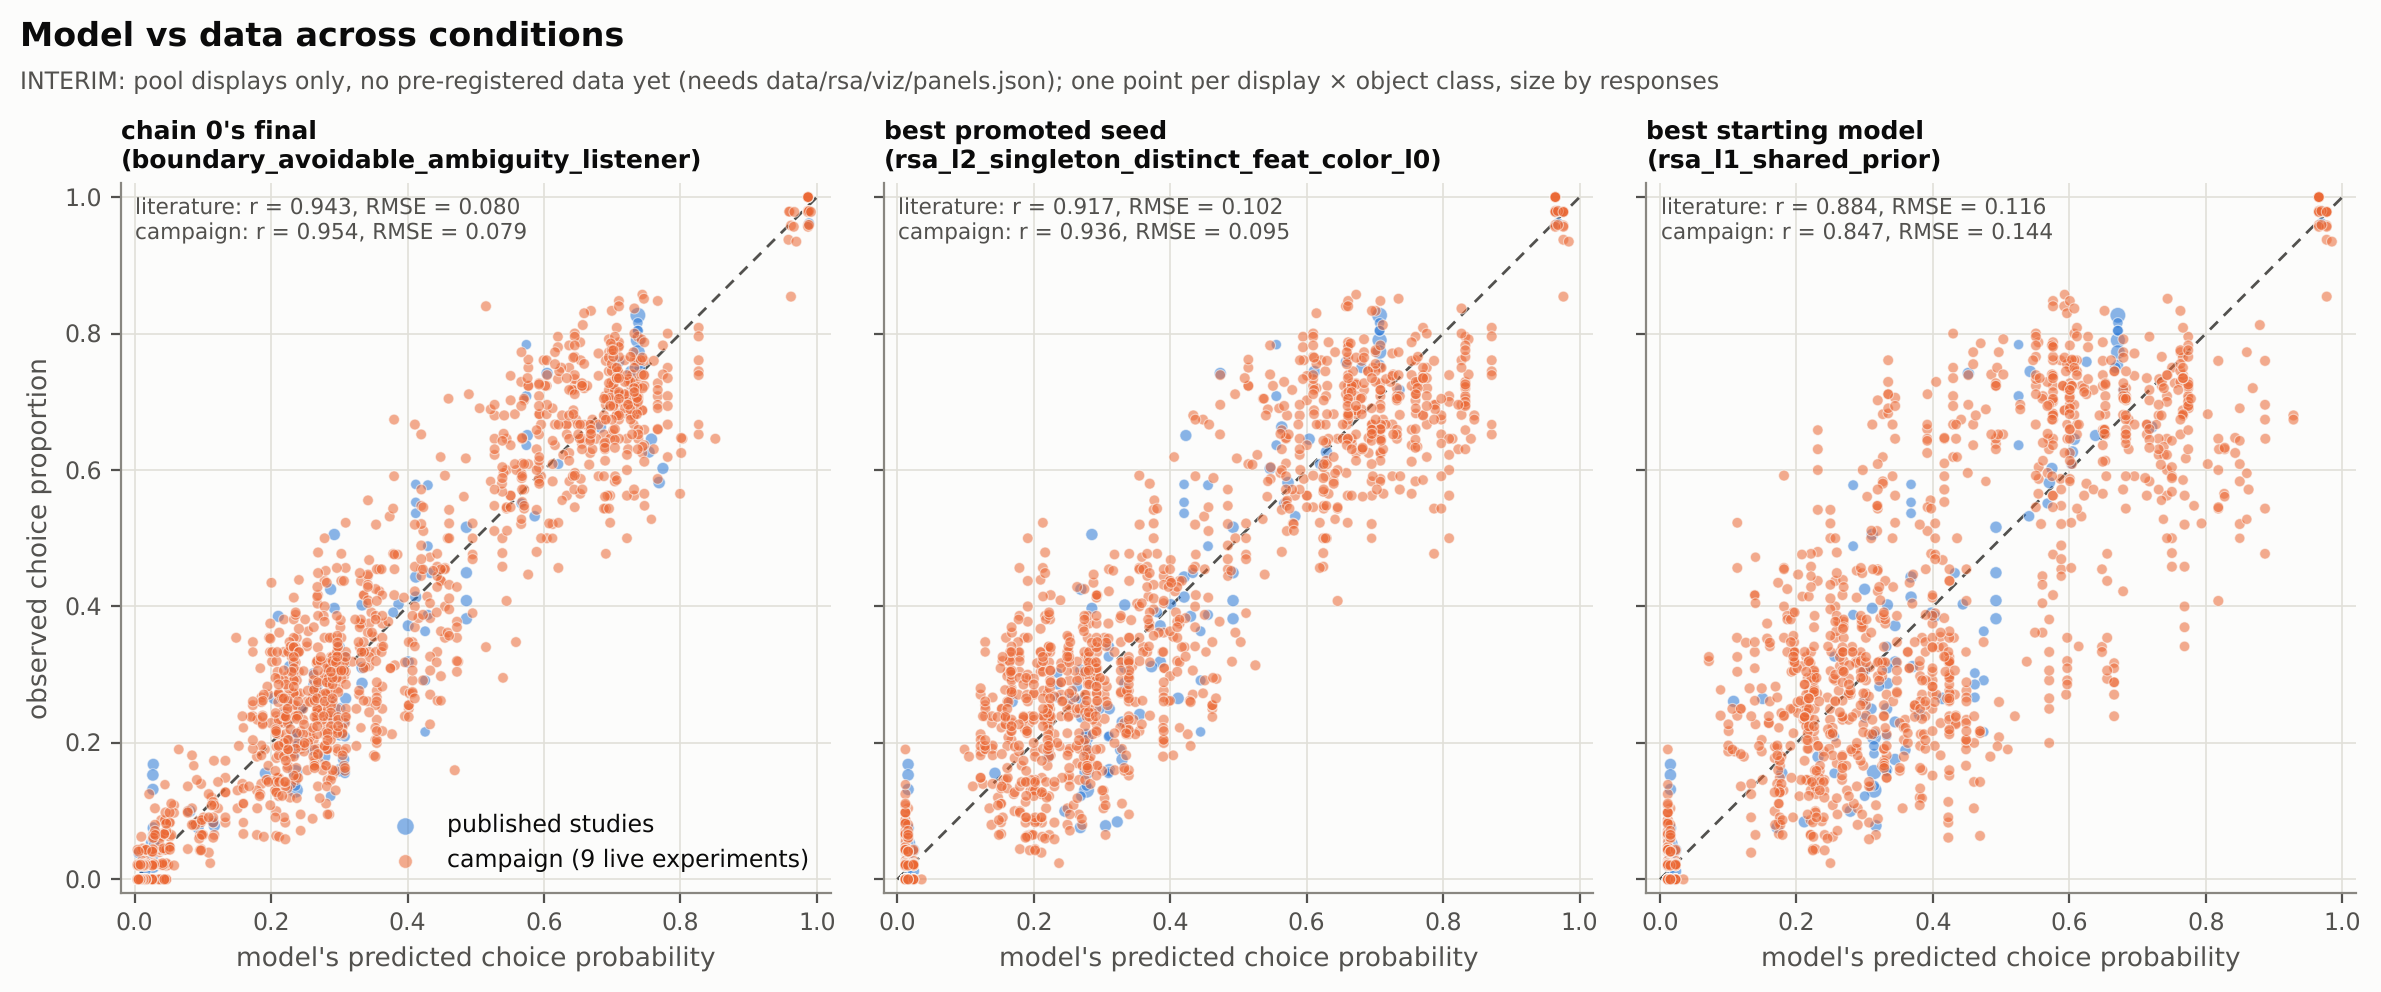
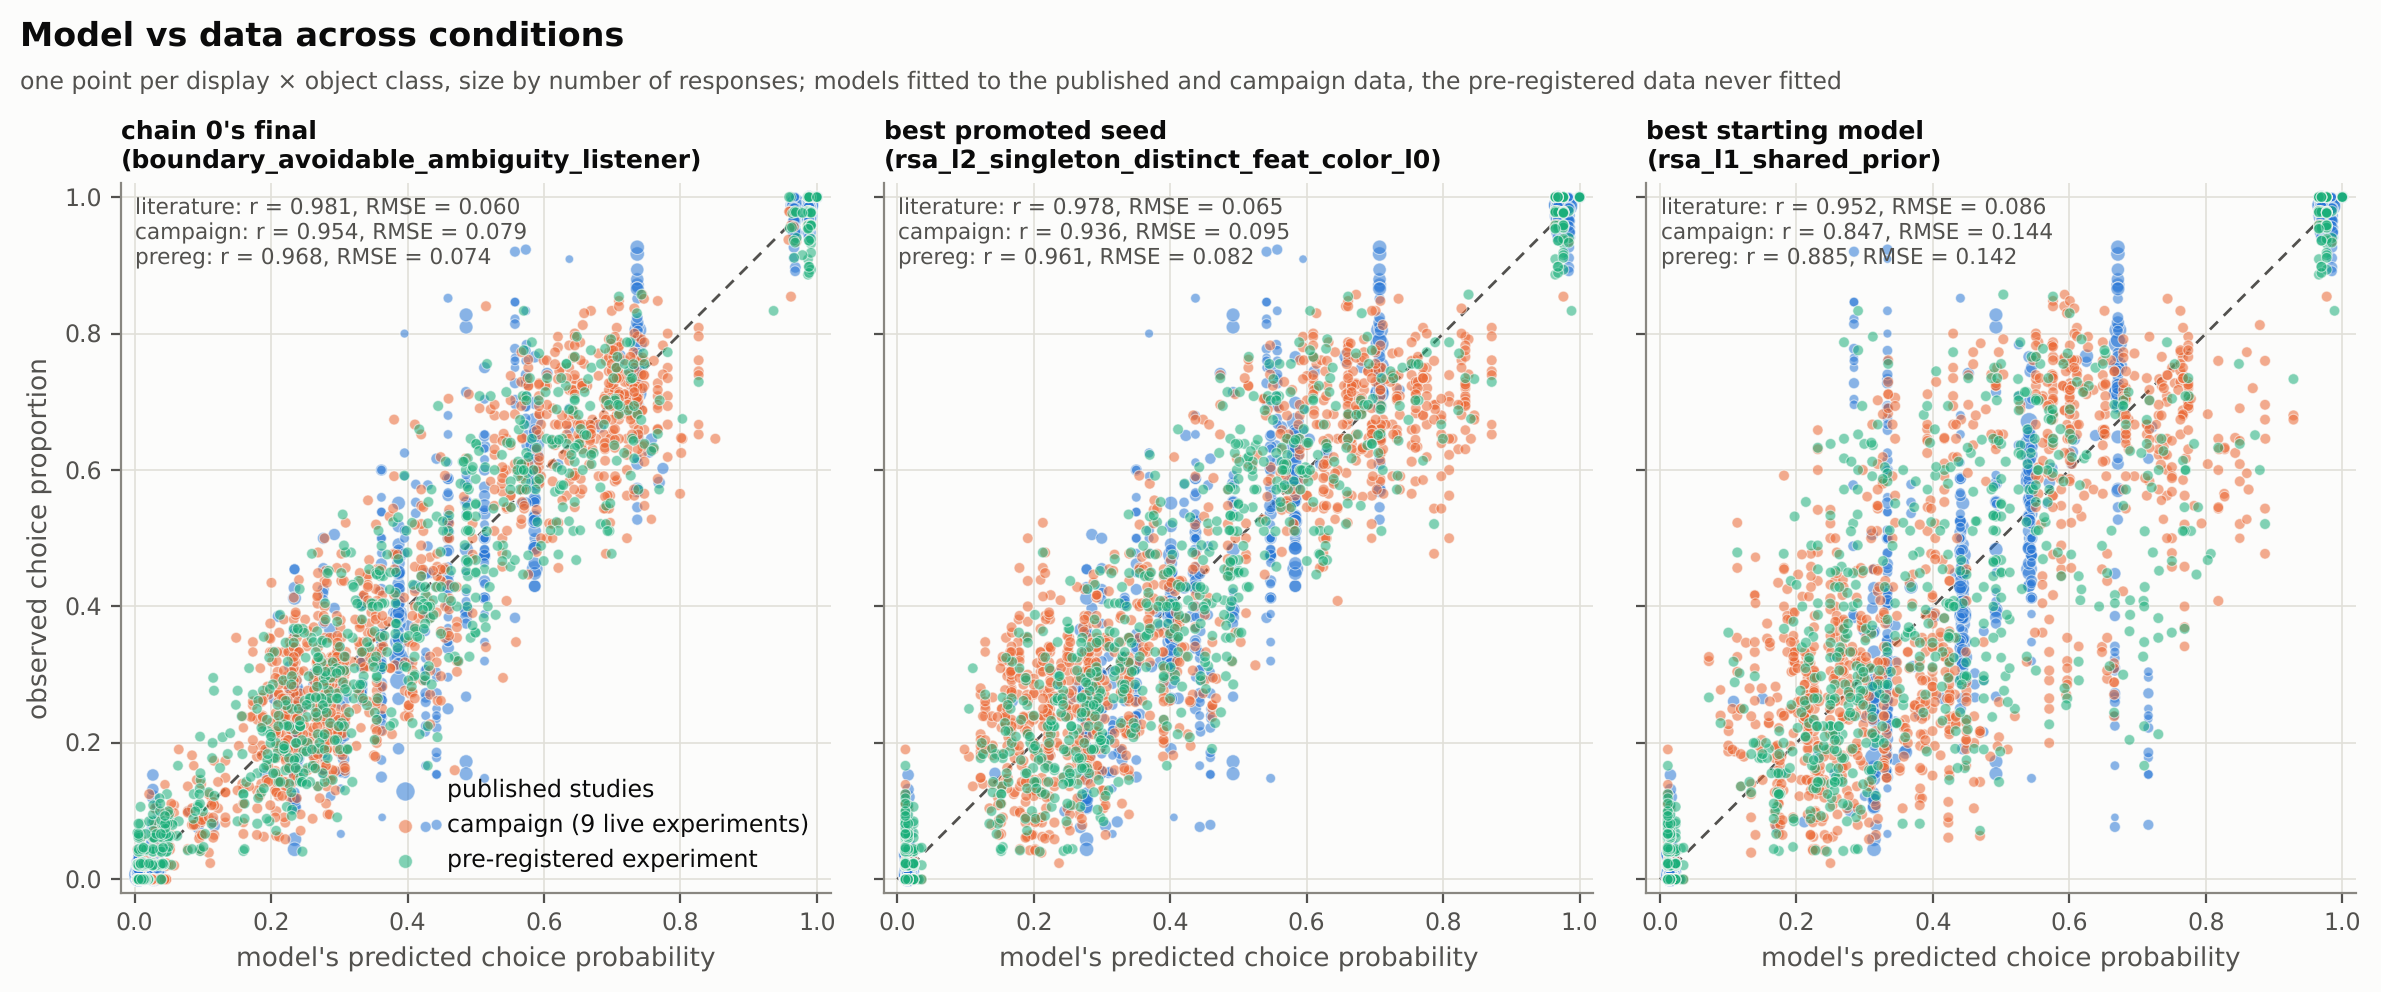
Figures rerun on the Sherlock export: full model-vs-data scatter with the pre-registered data, plus a per-dataset version (fig5b)
Claude-Session: https://claude.ai/code/session_01WP4CGvTwtTArN4tdEqZsqo

diff --git a/src/rsa/viz/figures.py b/src/rsa/viz/figures.py
@@ -40,6 +40,7 @@ FINALS = {"c0": "boundary_avoidable_ambiguity_listener", "c1": "feature_surprisa
 BEST_PROMOTED = "promoted:rsa_l2_singleton_distinct_feat_color_l0"
 BEST_STARTING = "seed:rsa_l1_shared_prior"
 DATASET_COLORS = {"literature": BLUE, "campaign": ORANGE, "prereg": AQUA}
+ROW_LABELS = {"literature": "published", "campaign": "campaign", "prereg": "pre-registered"}
 DATASET_LABELS = {"literature": "published studies", "campaign": "campaign (9 live experiments)",
                   "prereg": "pre-registered experiment"}
 
@@ -362,6 +363,45 @@ def fig_model_vs_data(out: Path, panels_path: Path) -> Path:
     return save(fig, out, "fig5_model_vs_data")
 
 
+def fig_model_vs_data_by_dataset(out: Path, panels_path: Path) -> Optional[Path]:
+    """Figure 5 split into one row per dataset (needs the Sherlock export)."""
+    if not panels_path.exists():
+        return None
+    data = json.loads(panels_path.read_text())
+    models = [("c0", "chain 0's final"), ("promoted", "best promoted seed"), ("starting", "best starting model")]
+    datasets = ["literature", "campaign", "prereg"]
+    fig, axes = plt.subplots(3, 3, figsize=(10, 10.4), sharex=True, sharey=True)
+    for row, d in enumerate(datasets):
+        panels = [p for p in data["panels"] if (p["dataset"].startswith("campaign") and d == "campaign")
+                  or p["dataset"] == d]
+        for col, (label, title) in enumerate(models):
+            ax = axes[row, col]
+            ax.plot([0, 1], [0, 1], color=INK2, lw=1, ls=(0, (4, 3)), zorder=1)
+            pts = [(c["preds"][label], c["count"] / p["n"], p["n"]) for p in panels for c in p["classes"] if p["n"] > 0]
+            x, y, n = (np.asarray(v) for v in zip(*pts))
+            ax.scatter(x, y, s=3 + 1.4 * np.sqrt(n), color=DATASET_COLORS[d], alpha=0.55, lw=0.4, edgecolor=SURFACE,
+                       zorder=2)
+            r = np.corrcoef(x, y)[0, 1]
+            rmse = np.sqrt(np.average((x - y) ** 2, weights=n))
+            head = f"{ROW_LABELS[d]}, {len(panels)} displays\n" if col == 0 else ""
+            ax.text(0.03, 0.97, f"{head}r = {r:.3f}\nRMSE = {rmse:.3f}", transform=ax.transAxes, va="top",
+                    fontsize=8.5, color=INK)
+            ax.set_xlim(-0.02, 1.02)
+            ax.set_ylim(-0.02, 1.02)
+            ax.set_aspect("equal")
+            if row == 0:
+                ax.set_title(title, fontsize=10)
+            if row == 2:
+                ax.set_xlabel("predicted probability")
+            if col == 0:
+                ax.set_ylabel("observed proportion")
+    fig.suptitle("Model vs data, one row per dataset", x=0.01, ha="left", fontsize=12, fontweight="bold")
+    fig.text(0.01, 0.945, "models fitted to the published and campaign data; the pre-registered row is "
+             "out of sample", fontsize=8.5, color=INK2)
+    fig.tight_layout(rect=(0, 0, 1, 0.95))
+    return save(fig, out, "fig5b_model_vs_data_by_dataset")
+
+
 # ---------------------------------------------------------------- figure 6: consolidation
 
 def fig_consolidation(out: Path) -> Path:
@@ -440,7 +480,8 @@ def main(args: Args) -> List[Path]:
     style()
     args.out.mkdir(parents=True, exist_ok=True)
     return [fig_existing_data(args.out), fig_trajectories(args.out), fig_prospective(args.out),
-            fig_prereg_ranking(args.out), fig_model_vs_data(args.out, args.panels), fig_consolidation(args.out)]
+            fig_prereg_ranking(args.out), fig_model_vs_data(args.out, args.panels),
+            *filter(None, [fig_model_vs_data_by_dataset(args.out, args.panels)]), fig_consolidation(args.out)]
 
 
 if __name__ == "__main__":

diff --git a/tests/test_rsa_viz.py b/tests/test_rsa_viz.py
@@ -59,3 +59,16 @@ def test_interim_panels_hold_no_prereg_data_and_valid_probabilities():
         assert sum(c["count"] for c in p["classes"]) == p["n"]
         for label in ("c0", "promoted", "starting"):
             assert abs(sum(c["preds"][label] for c in p["classes"]) - 1) < 1e-4
+
+
+def test_the_full_scatter_and_its_per_dataset_version_come_from_the_export(tmp_path):
+    from src.rsa.viz import figures
+
+    panels = figures.here() / "data/rsa/viz/panels.json"
+    figures.style()
+    assert figures.fig_model_vs_data_by_dataset(tmp_path, panels).exists()
+    data = json.loads(panels.read_text())
+    assert {p["dataset"] for p in data["panels"]} == {"literature", "prereg", "campaign c0", "campaign c1",
+                                                      "campaign c2"}
+    assert sum(p["n"] for p in data["panels"] if p["dataset"] == "prereg") == 14404
+    assert "participant" not in panels.read_text()

diff --git a/docs/auto_rsa/figures/README.md b/docs/auto_rsa/figures/README.md
@@ -11,6 +11,7 @@ reference palette of the dataviz guidance.
 | `fig3_prospective_tests.png` | A: claim 2, each committed model on the next experiment vs the best starting model and the best promoted seed. B: the pre-registered test (OSF s48jv), each final vs the best promoted seed, overall and by design half | `prospective.json`, `data/rsa/prereg/run/prereg_analysis.json` |
 | `fig4_prereg_all_models.png` | every model's log predictive density on the pre-registered data, relative to the best promoted seed | `prereg_analysis.json` |
 | `fig5_model_vs_data.png` | model vs data per display and object class: chain 0's final, the best promoted seed and the best starting model, colored by dataset | `data/rsa/viz/panels.json` (see below) |
+| `fig5b_model_vs_data_by_dataset.png` | figure 5 with one row per dataset (r and weighted RMSE per panel); drawn only from `panels.json` | `data/rsa/viz/panels.json` |
 | `fig6_consolidation.png` | A: the backward elimination, each mechanism's removal cost in SEs by round. B: the consolidated models scored on the pre-registered data vs chain 0's final | `data/rsa/consolidate/` |
 
 **Figure 5's data.** The pre-registered experiment's per-display counts exist only on Sherlock.
@@ -18,10 +19,9 @@ reference palette of the dataviz guidance.
 `$SCRATCH/auto-psych/rsa_consolidate/panels.json`: each display's choice counts per class, for the
 published, campaign and pre-registered data, and the posterior-mean class probabilities of each
 model fitted on the pooled data (the fit behind the frozen predictions). It holds aggregates
-only: no trial rows, no participant ids. Bring it back as `data/rsa/viz/panels.json` and rerun the
-figures.
+only: no trial rows, no participant ids. It was brought back as `data/rsa/viz/panels.json` (viz export job 48147896, code ecebbb71).
 
-Until then, figure 5 is an **interim** version (it says so in its subtitle): observed counts from
+Without `panels.json`, figure 5 falls back to an **interim** version (it says so in its subtitle): observed counts from
 the chains' report bundles and the frozen pool predictions, for the displays in the 1,597-display
 pool only (the published studies' plain displays and all campaign displays), without the
 pre-registered data.
